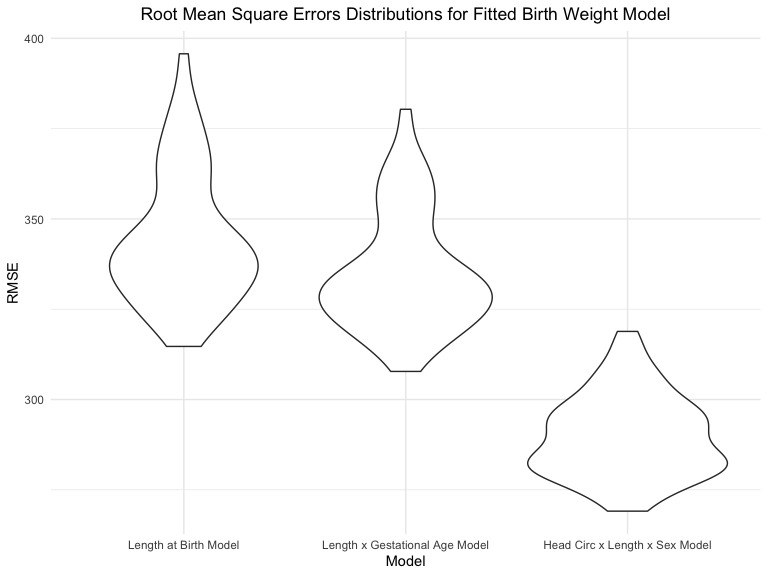
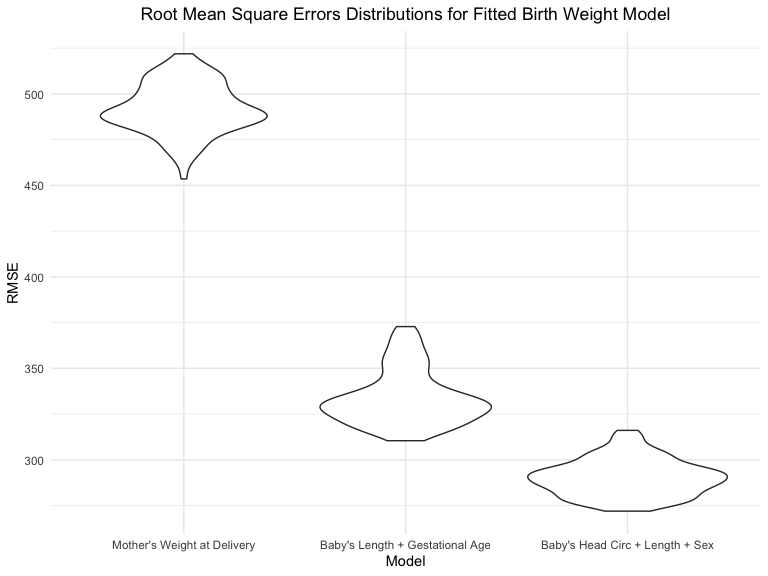
Problem 3 - added write-ups/explanations + minor formatting changes + changed analysis

diff --git a/p8105_hw6_els2250.md b/p8105_hw6_els2250.md
@@ -1,6 +1,6 @@
 Homework 6
 ================
-Emma Sexton
+Emma Sexton <br>
 Due 3 Dec 2022
 
 ``` r
@@ -48,15 +48,6 @@ homicide_df <-
     'data/homicide-data.csv') %>%  
   janitor::clean_names()
 ```
-
-    ## Rows: 52179 Columns: 12
-    ## ── Column specification ────────────────────────────────────────────────────────
-    ## Delimiter: ","
-    ## chr (9): uid, victim_last, victim_first, victim_race, victim_age, victim_sex...
-    ## dbl (3): reported_date, lat, lon
-    ## 
-    ## ℹ Use `spec()` to retrieve the full column specification for this data.
-    ## ℹ Specify the column types or set `show_col_types = FALSE` to quiet this message.
 
 ``` r
 homicide_summary <- 
@@ -147,9 +138,26 @@ homicide_data_analysis %>%
 
 <img src="p8105_hw6_els2250_files/figure-gfm/unnamed-chunk-7-1.png" width="90%" />
 
+The plot demonstrates that ALbuquerque, NM, Stockton, CA, and Fresno, CA
+have the highest odds of solving homicides with male victims compared to
+female victims. Of note, the 95% confidence intervals for these cities
+is extremely wide, especially compared to the rest of the data set.
+Meanwhile, New York, NY, Baton Rouge, LA, and Omaha, NE have the lowest
+odds of solving homicides with male victims compared to female victims,
+and they have tighter confidence intervals.
+
 ## Problem 3
 
-### Load and clean data for regression analysis
+### Load and Clean Data for Regression Analysis
+
+Four variables (`babysex`, `frace`, `malform`, `mrace`) were converted
+to factors since they are categorical. `frace` had no “unknown”
+responses and `mrace` had no “other” responses, therefore, neither of
+those responses were included in the factor recode. `fincome` was also
+modified to reflect the appropriate unit reported in the codebook
+(hundreds). There is no other missing data for any other variables in
+this data set. The `skimr` function provides a summary of the variables
+in the data set below.
 
 ``` r
 birthweight_df <- 
@@ -158,9 +166,9 @@ birthweight_df <-
   janitor::clean_names() %>%
   mutate(
     babysex = factor(babysex, labels = c("male", "female")),
-    frace = factor(frace, labels = c("white", "black", "asian", "puerto rican", "other")),
+    frace =   factor(frace, labels = c("white", "black", "asian", "puerto rican", "other")),
     malform = factor(malform, labels = c("absent", "present")),
-    mrace = factor(mrace, labels = c("white", "black", "asian", "puerto rican"))
+    mrace =   factor(mrace, labels = c("white", "black", "asian", "puerto rican"))
   )
 ```
 
@@ -220,20 +228,14 @@ Data summary
 | smoken        |         0 |             1 |    4.15 |   7.41 |   0.00 |    0.00 |    0.00 |    5.00 |   60.0 | ▇▁▁▁▁ |
 | wtgain        |         0 |             1 |   22.08 |  10.94 | -46.00 |   15.00 |   22.00 |   28.00 |   89.0 | ▁▁▇▁▁ |
 
-Four variables (`babysex`, `frace`, `malform`, `mrace`) were converted
-to factors since they are categorical. `frace` had no “unknown”
-responses and `mrace` had no “other” responses, therefore, neither of
-those responses were included in the factor recode. There is no other
-missing data for any other variables.
-
 ### Regression Model Proposal
 
-We hypothesize that birth weight is associated with the baby’s length at
-birth (cm).
+We hypothesize that birth weight (grams) is associated with the mother’s
+weight at the time of delivery (pounds).
 
 ``` r
 birthweight_df %>% 
-  ggplot(aes(x = blength, y = bwt)) +
+  ggplot(aes(x = delwt, y = bwt)) +
   geom_point(alpha = 0.5)
 ```
 
@@ -241,26 +243,26 @@ birthweight_df %>%
 
 To test this hypothesis, we will use a regression model using birth
 weight and the baby’s length at birth. Below, predictions (x) and
-residuals (y)
+residuals (y) are used to illustrate the model.
 
 ``` r
-fit_blength <- lm(bwt ~ blength, data = birthweight_df)
+fit_delwt <- lm(bwt ~ delwt, data = birthweight_df)
 
-fit_blength %>% 
+fit_delwt %>% 
   broom::tidy() %>% 
   knitr::kable(col.names = c("Term", "Estimate", "Standard Error", "Statistic", "P-Value"), digits = 3)
 ```
 
-| Term        |  Estimate | Standard Error | Statistic | P-Value |
-|:------------|----------:|---------------:|----------:|--------:|
-| (Intercept) | -3841.267 |         95.122 |   -40.382 |       0 |
-| blength     |   139.811 |          1.909 |    73.233 |       0 |
+| Term        | Estimate | Standard Error | Statistic | P-Value |
+|:------------|---------:|---------------:|----------:|--------:|
+| (Intercept) | 2147.912 |         49.367 |    43.509 |       0 |
+| delwt       |    6.639 |          0.335 |    19.804 |       0 |
 
 ``` r
 birthweight_df %>% 
   mutate(
-    modelr::add_residuals(birthweight_df, fit_blength),
-    modelr::add_predictions(birthweight_df, fit_blength)
+    modelr::add_residuals(birthweight_df, fit_delwt),
+    modelr::add_predictions(birthweight_df, fit_delwt)
   ) %>% 
   ggplot(aes(x = pred, y = resid)) +
   geom_point()
@@ -286,22 +288,30 @@ fit_bhead_blength_bsex = lm(bwt ~ bhead + blength + babysex + bhead*blength + bh
 
 ### Comparing Regression Models using Cross-Validated Prediction Error
 
+Using cross-validated prediction error, we are able to make comparisons
+between the three models (`mod_blength`, `mod_blength_gaweeks`, and
+`mod_bhead_blength_bsex`).
+
 ``` r
 cv_df <-
   crossv_mc(birthweight_df, 100) %>% 
   mutate(
-    mod_blength =            map(.x = train, ~lm(bwt ~ blength, data = .x)),
+    mod_delwt =              map(.x = train, ~lm(bwt ~ delwt, data = .x)),
     mod_blength_gaweeks =    map(.x = train, ~lm(bwt ~ blength + gaweeks, data = .x)),
     mod_bhead_blength_bsex = map(.x = train, ~lm(bwt ~ bhead + blength + babysex + bhead*blength + bhead*babysex + blength*babysex + bhead*blength*babysex, data = .x))
   ) %>% 
   mutate(
-    rmse_blength =            map2_dbl(.x = mod_blength, .y = test, ~rmse(model = .x, data = .y)),
+    rmse_delwt =              map2_dbl(.x = mod_delwt, .y = test, ~rmse(model = .x, data = .y)),
     rmse_blength_gaweeks =    map2_dbl(.x = mod_blength_gaweeks, .y = test, ~rmse(model = .x, data = .y)),
     rmse_bhead_blength_bsex = map2_dbl(.x = mod_bhead_blength_bsex, .y = test, ~rmse(model = .x, data = .y))
   )
 ```
 
 ### Plot of RMSE Values for Each Model
+
+The plot below demonstrates the distribution of RMSE values for each
+model. RMSE is a metric that ranges from 0 to infinity, and a lower
+value represents a “better fitted” model to the data set.
 
 ``` r
 cv_df %>% 
@@ -322,12 +332,20 @@ cv_df %>%
     x = "Model",
     y = "RMSE"
   ) +
-  scale_x_discrete(labels = c("blength" = "Length at Birth Model",
-                              "blength_gaweeks" = "Length x Gestational Age Model",
-                              "bhead_blength_bsex" = "Head Circ x Length x Sex Model")) +
+  scale_x_discrete(labels = c("delwt" = "Mother's Weight at Delivery",
+                              "blength_gaweeks" = "Baby's Length + Gestational Age",
+                              "bhead_blength_bsex" = "Baby's Head Circ + Length + Sex")) +
   theme(
     plot.title = element_text(hjust = 0.5)
   )
 ```
 
 <img src="p8105_hw6_els2250_files/figure-gfm/unnamed-chunk-13-1.png" width="90%" />
+
+With the lowest RMSE value of the three models, `bhead_blength_bsex`,
+which considers head circumference, length, sex, and all interactions on
+birth weight, is most appropriate. It should be noted, however, that
+models with RMSE values between 0.2 and 0.5 indicate a relatively
+accurate prediction model. Each model included in this analysis has an
+extremely high RMSE value, therefore, these models may not be the most
+accurate for assessing factors impacting birth weight.
